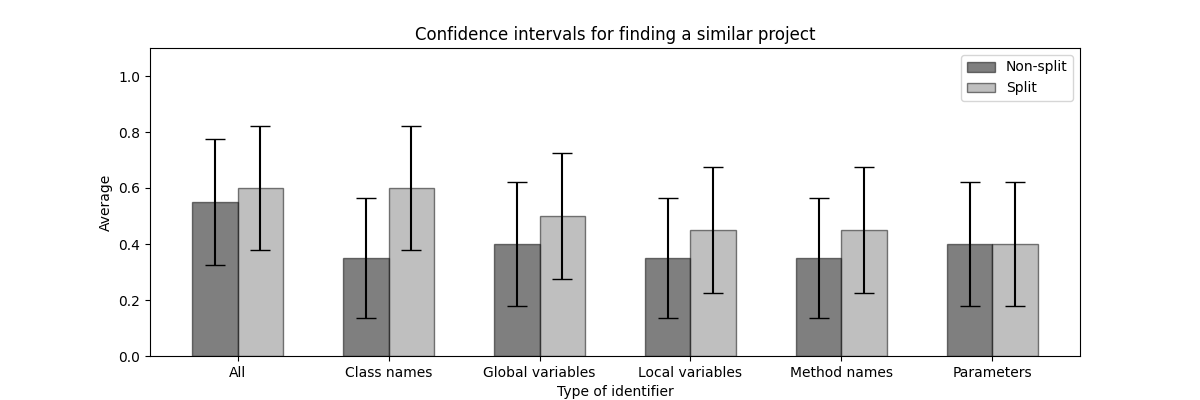
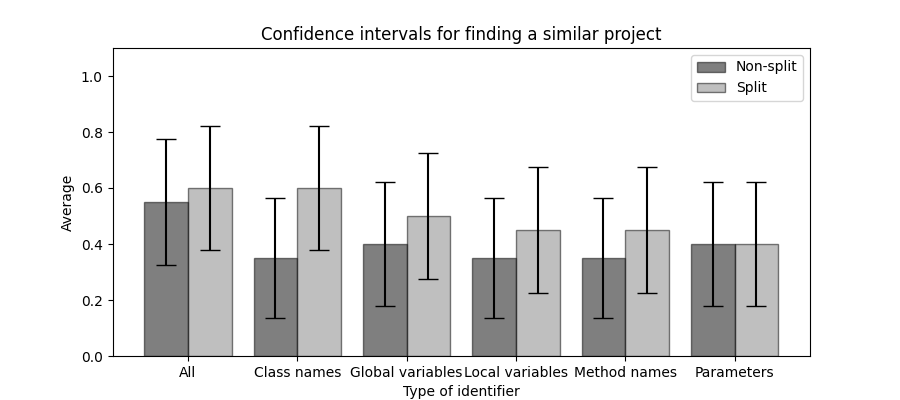
Add 2D plots and update README

diff --git a/analyzer/analyzer2D.py b/analyzer/analyzer2D.py
@@ -28,7 +28,7 @@ def main():
     split = True if configuration.config["split.split"].data == "true" else False
 
     import repository
-    output_folder = "analysis_3d"
+    output_folder = "analysis_2d"
     if not os.path.exists(output_folder):
         os.makedirs(output_folder)
 
@@ -57,7 +57,7 @@ def main():
     print("Loaded " + str(len(repositories.data)) + " repositories with " + str(number_of_topics) + " total topics!")
 
     queries = []
-    with open("queries.txt", "r") as f:
+    with open("dataset/queries.txt", "r") as f:
         for line in f:
             line = line.strip()
             queries.append(line)
@@ -73,7 +73,7 @@ def main():
 
         vectorizer = TfidfVectorizer(min_df=2, max_df=0.50)
         bow = vectorizer.fit_transform(data[analysis_type])
-        
+
         # LSA
         lsa = TruncatedSVD(n_components=number_of_topics)
         lsa_matrix = lsa.fit_transform(bow)
@@ -81,7 +81,7 @@ def main():
         lsa_target_percentages = np.amax(lsa_matrix, axis=1).tolist()
 
         # TSNE perplexity 20 orig
-        tsne = TSNE(n_components=3, perplexity=25, learning_rate=100, n_iter=2000, random_state=0, angle=0.75)
+        tsne = TSNE(n_components=2, perplexity=25, learning_rate=100, n_iter=2000, random_state=0, angle=0.75)
         tsne_mat = tsne.fit_transform(lsa_matrix)
 
         # Cosine similarity
@@ -117,21 +117,21 @@ def main():
         fig = plt.figure(layout="constrained")
         fig.set_size_inches((18.5, 10.5), forward=False)
         gs = GridSpec(1, 2, figure=fig)
-        ax1 = fig.add_subplot(gs[0, 0], projection='3d')
-        ax2 = fig.add_subplot(gs[0, 1], projection='3d')
+        ax1 = fig.add_subplot(gs[0, 0])
+        ax2 = fig.add_subplot(gs[0, 1])
 
         # Plot
         colors = ListedColormap(sns.color_palette("hls", number_of_topics))
         lookup_table, color_target = np.unique(target, return_inverse=True)
-        ax1.scatter(xs=tsne_mat[:, 0], ys=tsne_mat[:, 1], zs=tsne_mat[:, 2], c=color_target, cmap=colors)
+        ax1.scatter(x=tsne_mat[:, 0], y=tsne_mat[:, 1], c=color_target, cmap=colors)
         ax1.set_title("t-SNE with manual labels")
 
         # Plot axes 2
-        ax2.scatter(xs=tsne_mat[:, 0], ys=tsne_mat[:, 1], zs=tsne_mat[:, 2], c=lsa_target, cmap=colors)
+        ax2.scatter(x=tsne_mat[:, 0], y=tsne_mat[:, 1], c=lsa_target, cmap=colors)
         ax2.set_title("t-SNE with LSA labels")
 
         # Export
-        path = os.path.join(output_folder, folder_name + '/t-SNE Plot.png')
+        path = os.path.join(output_folder, folder_name + '/t-SNE Plot 2D.png')
         plt.savefig(path, dpi=200)
         plt.close(fig)
 

diff --git a/analyzer/match_confidence_interval.py b/analyzer/match_confidence_interval.py
@@ -5,7 +5,7 @@ import pandas as pd
 import numpy as np
 import matplotlib.pyplot as plt
 
-df = pd.read_csv('analysis_3d/results.csv')
+df = pd.read_csv('dataset/analysis-output/results.csv')
 stats = df.groupby(['Type'])['Score eval'].agg(['mean', 'count', 'std'])
 confidence = []
 
@@ -16,7 +16,7 @@ for i in stats.index:
 stats['confidence'] = confidence
 
 print(stats)
-stats.to_csv('analysis_3d/repository_match_stats.csv')
+stats.to_csv('dataset/analysis-output/repository_match_stats.csv')
 
 names_split = [" ".join(x.split("_")).capitalize() for x in list(stats.index.values)[1::2]]
 names_non_split = [" ".join(x.split("_")).capitalize() for x in list(stats.index.values)[::2]]
@@ -27,11 +27,11 @@ non_split = stats['mean'][::2]
 confidence_split = stats['confidence'][1::2]
 confidence_non_split = stats['confidence'][::2]
 
-barWidth = 0.3
+barWidth = 0.4
 r1 = np.arange(len(non_split))
 r2 = [x + barWidth for x in r1]
 f = plt.figure()
-f.set_figwidth(12)
+f.set_figwidth(9)
 f.set_figheight(4)
 plt.bar(r1, non_split, width = barWidth, color = 'black', edgecolor = 'black', yerr=confidence_non_split, capsize=7, alpha=0.5, label="Non-split")
 plt.bar(r2, split, width = barWidth, color = 'gray', edgecolor = 'black', yerr=confidence_split, capsize=7,alpha=0.5, label="Split")
@@ -44,6 +44,6 @@ plt.legend()
 
 # Show graphic
 plt.title("Confidence intervals for finding a similar project")
-path = os.path.join('analysis_3d', 'repository_match_stats.png')
+path = os.path.join('dataset/analysis-output', 'repository_match_stats.png')
 plt.savefig(path)
 plt.show()

diff --git a/analyzer/topic_confidence_interval.py b/analyzer/topic_confidence_interval.py
@@ -5,7 +5,7 @@ import pandas as pd
 import numpy as np
 import matplotlib.pyplot as plt
 
-df = pd.read_csv('analysis_3d/results.csv')
+df = pd.read_csv('dataset/analysis-output/results.csv')
 stats = df.groupby(['Type'])['Topic match'].agg(['mean', 'count', 'std'])
 confidence = []
 
@@ -16,7 +16,7 @@ for i in stats.index:
 stats['confidence'] = confidence
 
 print(stats)
-stats.to_csv('analysis_3d/topic_match_stats.csv')
+stats.to_csv('dataset/analysis-output/topic_match_stats.csv')
 
 names_split = [" ".join(x.split("_")).capitalize() for x in list(stats.index.values)[1::2]]
 names_non_split = [" ".join(x.split("_")).capitalize() for x in list(stats.index.values)[::2]]
@@ -27,11 +27,11 @@ non_split = stats['mean'][::2]
 confidence_split = stats['confidence'][1::2]
 confidence_non_split = stats['confidence'][::2]
 
-barWidth = 0.3
+barWidth = 0.4
 r1 = np.arange(len(non_split))
 r2 = [x + barWidth for x in r1]
 f = plt.figure()
-f.set_figwidth(12)
+f.set_figwidth(9)
 f.set_figheight(4)
 plt.bar(r1, non_split, width = barWidth, color = 'black', edgecolor = 'black', yerr=confidence_non_split, capsize=7, alpha=0.5, label="Non-split")
 plt.bar(r2, split, width = barWidth, color = 'gray', edgecolor = 'black', yerr=confidence_split, capsize=7,alpha=0.5, label="Split")
@@ -44,6 +44,6 @@ plt.legend()
 
 # Show graphic
 plt.title("Confidence intervals for finding a project with matching topic")
-path = os.path.join('analysis_3d', 'topic_match_stats.png')
+path = os.path.join('dataset/analysis-output', 'topic_match_stats.png')
 plt.savefig(path)
 #plt.show()

diff --git a/README.md b/README.md
@@ -1,7 +1,8 @@
-# Tree Sitter
-## Building on Ubuntu (Linux)
+# Setup
+## Tree-sitter
+### Building on Ubuntu (Linux)
 
-### Prerequitstics
+#### Prerequisites
 `sudo apt install git`
 
 `sudo apt install openjdk-17-jdk` or any other version.
@@ -17,7 +18,7 @@ Add `JAVA_HOME` to `~/.bashrc` (Linux):
 macOS (`~/.zshrc`):
 `export JAVA_HOME=$(/usr/libexec/java_home)`
 
-### Clone
+#### Clone
 
 `git clone https://github.com/jcrienen/java-tree-sitter.git`
 `cd java-tree-sitter`
@@ -29,12 +30,19 @@ ex. `git clone https://github.com/tree-sitter/tree-sitter-java.git`
 
 https://tree-sitter.github.io/tree-sitter/
 
-### Build library
+#### Build library
 
 `python3 build.py -a x86_64 -o libjava-tree-sitter tree-sitter-java ...`
 
-# Extractor
+# Running the code
+## Extractor
 Build the wrapper library locally using `mvn install`. Build the extractor using Maven and run it by using `java -jar file.jar -p app.properties`. Modify `app.properties` according to your own needs.
 
-# Analyzer
-Run `analysis3D.py` with the `app.properties` as a parameter. Results will be extractor into `/analysis3D`.
+## Analyzer
+Run `analysis3D.py` with the `app.properties` as a parameter. Results will be extractor into `/analysis_3d`.
+
+# CSE3000 Research project
+
+This repository links to the work for the 2023 Q2 Research project course of the CSE bachelor at TU Delft.
+
+Please see the projects [here](https://cse3000-research-project.github.io/).
